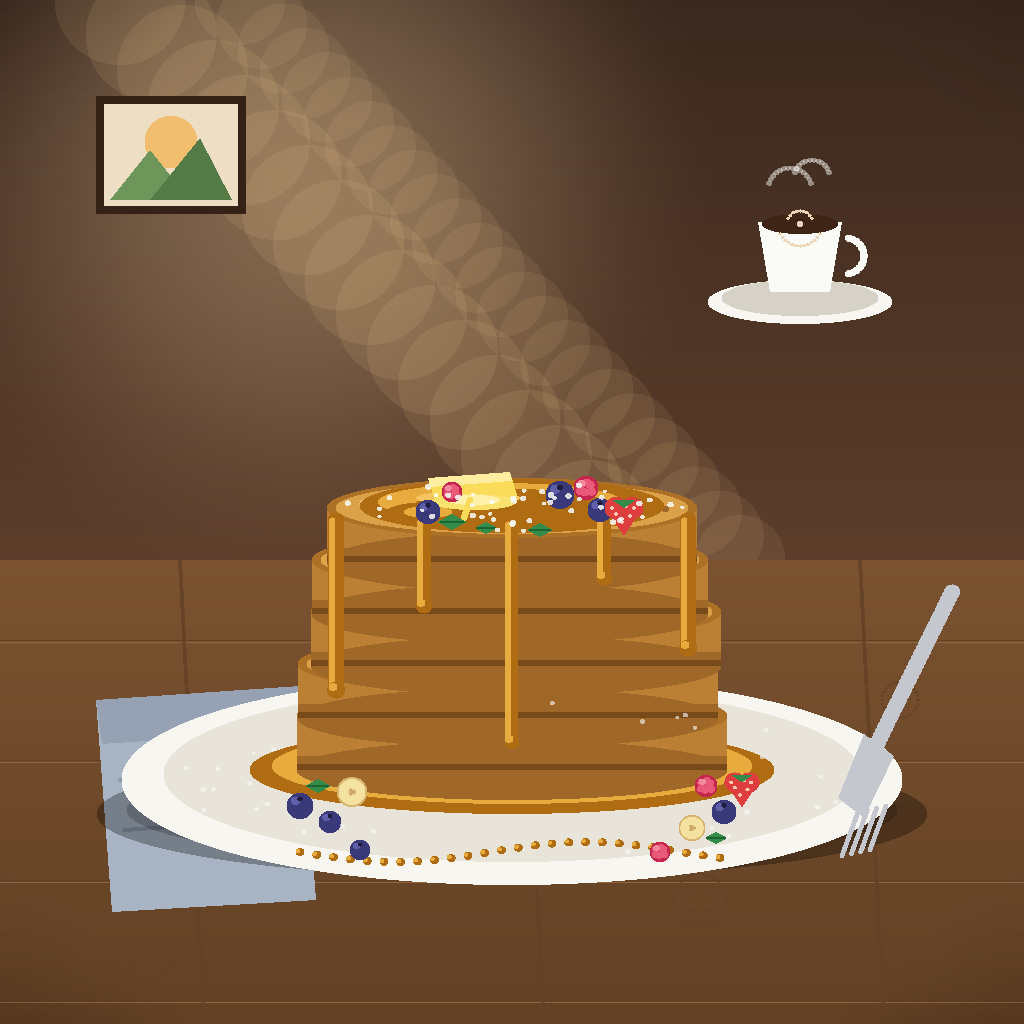
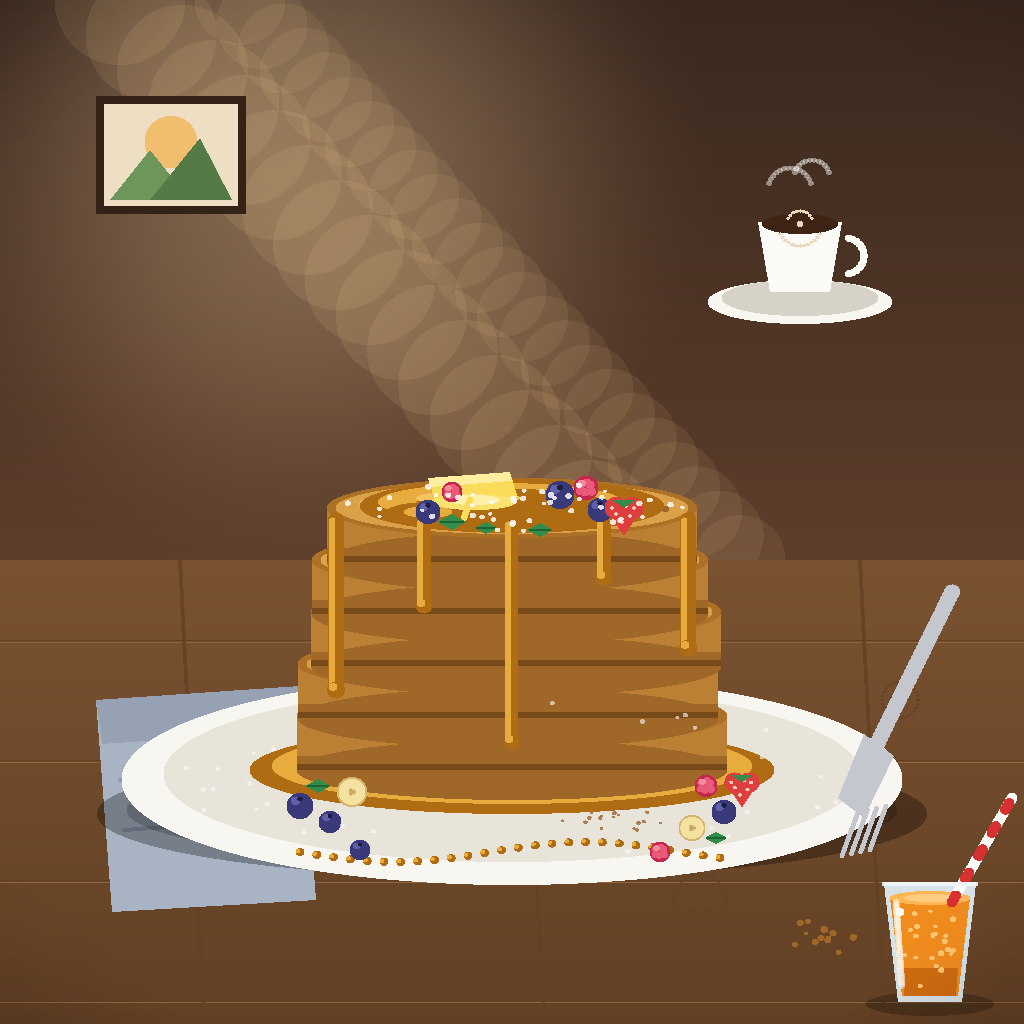
Maple Morning v4 — orange juice, crumbs, SPDX license (food-picture-01)

Changed region(s): [[0.8438, 0.8125, 0.9688, 1.0], [0.9688, 0.7812, 1.0, 0.8125], [0.7812, 0.9062, 0.8125, 0.9375]]

diff --git a/main.py b/main.py
@@ -33,6 +33,17 @@ Revision notes (v3)
   picture and a diagonal sunbeam; the table gains wood-grain knots.
 - A soft vignette darkens the corners so the eye stays on the stack.
 
+Revision notes (v4)
+-------------------
+- A glass of fresh orange juice joins the scene at the lower right:
+  a clear trapezoid glass, orange juice with pulp, a red-and-white
+  striped straw leaning out, a light glint on the glass and a soft
+  shadow on the table.
+- Pancake crumbs and a dusting of cinnamon now sit on the plate next
+  to the stack, so the dish looks freshly served rather than staged.
+- The straw leans a little further out and the juice carries extra
+  pulp, so the glass reads as freshly squeezed at a glance.
+
 There is no network access, no randomness that is not seeded, and no
 external asset: the same run always writes the same bytes, so the two
 sandbox runs required by the bounty produce identical files.
@@ -94,6 +105,10 @@ MINT = (52, 140, 74)
 NAPKIN = (168, 180, 196)
 WHITE = (250, 250, 246)
 COFFEE = (62, 36, 20)
+JUICE = (240, 140, 30)
+JUICE_LIGHT = (255, 182, 84)
+JUICE_DARK = (208, 108, 16)
+STRAW_RED = (214, 48, 48)
 
 
 # ------------------------------------------------------------ primitives ---
@@ -525,6 +540,65 @@ def draw_fork():
         line(x0, y0, x0 - 16, y0 + 44, 4, (196, 200, 206))
 
 
+def draw_orange_juice():
+    """A glass of fresh orange juice, lower right, with a striped straw.
+
+    The glass is a trapezoid, wider at the top; the juice sits just
+    below the rim, with darker juice at the bottom and pale pulp dots
+    floating in it. A red-and-white straw leans out to the upper right.
+    """
+    # soft shadow on the table under the glass
+    fill_ellipse_alpha(930, 1004, 64, 12, (0, 0, 0), 0.25)
+    # glass body: a pale, almost-clear trapezoid
+    fill_poly([(884, 884), (976, 884), (962, 1002), (898, 1002)],
+              (214, 226, 230))
+    # juice inside, a little below the rim and inside the walls
+    fill_poly([(890, 898), (970, 898), (958, 996), (902, 996)], JUICE)
+    fill_poly([(902, 968), (958, 968), (956, 996), (904, 996)], JUICE_DARK)
+    # juice surface seen from slightly above
+    fill_ellipse(930, 898, 40, 7, JUICE_LIGHT)
+    fill_ellipse(930, 898, 26, 4, (255, 205, 130))
+    # pulp: pale orange flecks drifting in the juice
+    for _ in range(22):
+        px = rng.uniform(904, 954)
+        py = rng.uniform(908, 988)
+        fill_circle(px, py, rng.uniform(1.5, 3), (255, 196, 110))
+    # red-and-white striped straw, leaning further out to the upper right
+    sx0, sy0 = 952, 902
+    sx1, sy1 = 1012, 798
+    line(sx0, sy0, sx1, sy1, 10, WHITE)
+    steps = 9
+    for k in range(steps):
+        t0 = k / steps
+        t1 = (k + 0.55) / steps
+        if k % 2 == 0:
+            line(sx0 + (sx1 - sx0) * t0, sy0 + (sy1 - sy0) * t0,
+                 sx0 + (sx1 - sx0) * t1, sy0 + (sy1 - sy0) * t1,
+                 10, STRAW_RED)
+    # glass rim and a glint of light down the left side
+    line(884, 884, 976, 884, 4, (238, 244, 246), 0.85)
+    line(896, 902, 902, 986, 6, WHITE, 0.5)
+    fill_circle(900, 912, 4, WHITE)
+
+
+def draw_crumbs():
+    """Pancake crumbs on the table and cinnamon dust on the plate."""
+    # crumbs scattered on the table beside the juice glass
+    for _ in range(12):
+        a = rng.uniform(0, 2 * math.pi)
+        rr = rng.uniform(0, 1)
+        cx = 828 + 58 * rr * math.cos(a)
+        cy = 938 + 18 * rr * math.sin(a)
+        fill_circle(cx, cy, rng.uniform(1.5, 3.5), PAN_SIDE_DARK)
+    # cinnamon dusted over the plate rim, front right of the stack
+    for _ in range(18):
+        a = rng.uniform(0, 2 * math.pi)
+        rr = rng.uniform(0.35, 1)
+        cx = 612 + 52 * rr * math.cos(a)
+        cy = 822 + 14 * rr * math.sin(a)
+        fill_circle_alpha(cx, cy, rng.uniform(1, 2), (150, 92, 40), 0.75)
+
+
 def draw():
     draw_background()
     draw_coffee()
@@ -534,7 +608,9 @@ def draw():
     draw_syrup()
     draw_toppings()
     draw_plate_berries()
+    draw_crumbs()
     draw_fork()
+    draw_orange_juice()
     vignette()
 
 

diff --git a/README.md b/README.md
@@ -10,8 +10,8 @@ with the Python standard library only: a tall stack of golden pancakes on
 a white ceramic plate, maple syrup poured over the top and dripping down
 the sides, a pat of melting butter, fresh blueberries, strawberries and
 mint, a dusting of powdered sugar — on a warm wooden table in soft
-morning light, with a cup of coffee, a fork and a folded napkin beside
-it. Warm colour, glossy syrup, visible texture: built to make a viewer
+morning light, with a cup of coffee, a glass of fresh orange juice,
+a fork and a folded napkin beside it. Warm colour, glossy syrup, visible texture: built to make a viewer
 hungry at one look, and to still read as one delicious dish at ~300
 pixels across.
 
@@ -35,8 +35,8 @@ library: `hashlib`, `math`, `os`, `random`, `struct`, `sys`, `zlib`.
 ## Verification
 
 - Two fresh runs produce byte-identical output
[1 lines of base64/hex data omitted]
-- Output: valid PNG, 1024×1024, 104,150 bytes (limit: 1 MiB, 1024×1024)
[1 lines of base64/hex data omitted]
+- Output: valid PNG, 1024×1024, 108,818 bytes (limit: 1 MiB, 1024×1024)
 - Runtime: ~2.8 s per run (limit: 60 s)
 
 ## License
